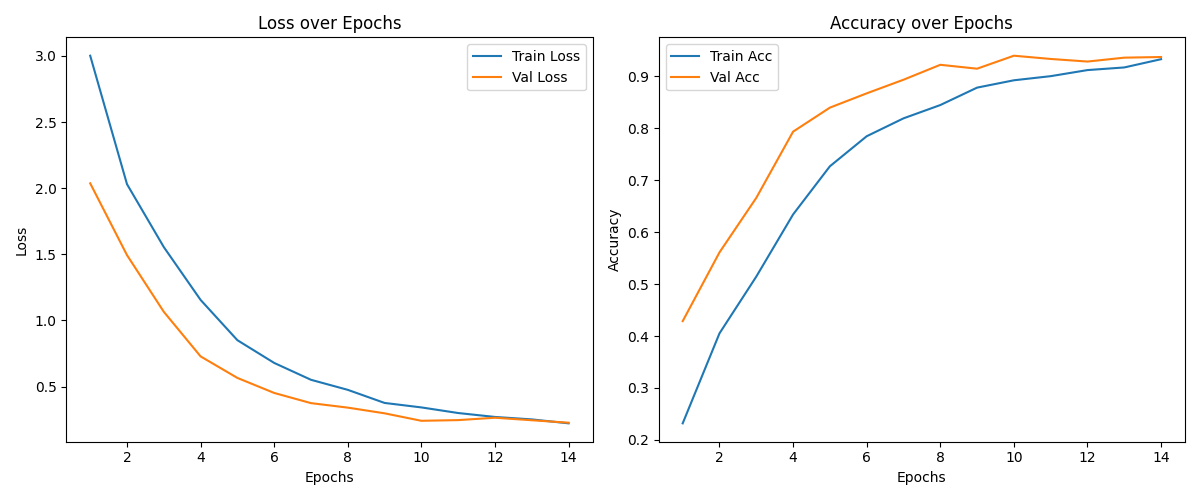
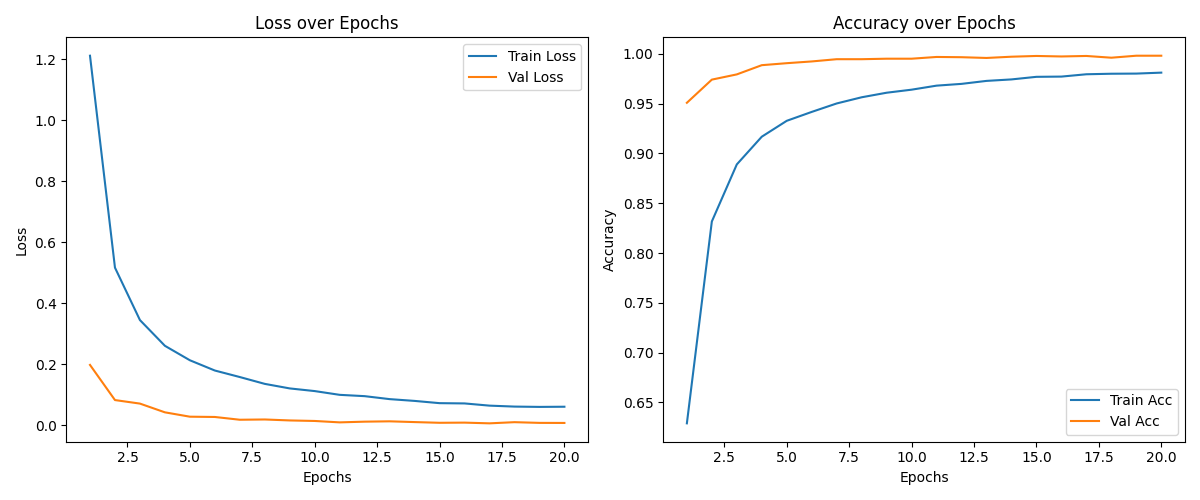
last pdate

diff --git a/services/cnn_model.py b/services/cnn_model.py
@@ -7,8 +7,9 @@ from models.mydataset import MyDataset
 from PIL import Image
 from config import Config
 from services.image_processing import transforming
-import torchvision.transforms.functional as TF
 from services.diagram import plot_training
+import tensorflow as tf
+import numpy as np
 
 
 def start(
@@ -61,11 +62,12 @@ def start(
     dropout_rate = hyperparameters.get("dropout_rate")
     early_stop_num = hyperparameters.get("early_stop")
 
-    train_data = MyDataset(X_train, y_train)
+    train_data = MyDataset(X_train, y_train, augment=True)
     val_data = MyDataset(X_val, y_val, validation=True)
     train_loader = DataLoader(train_data, batch_size=batch_size, shuffle=True)
     val_loader = DataLoader(val_data, batch_size=batch_size, shuffle=False)
 
+    # device = torch.device("cpu")
     device = torch.device("cuda" if torch.cuda.is_available() else "cpu")
     model = SimpleCNN(num_classes=len(set(y_train)), dropout=dropout_rate).to(device)
 
@@ -102,15 +104,16 @@ def start(
                 f"Val Loss: {history.get('epoch_val_loss'):.4f} | Val Acc: {history.get('epoch_val_acc'):.4f} - Best: {history.get('best_val_accuracy'):.4f}"
             },
         )
+        if history.get("epoch_val_acc") >= history.get("best_val_accuracy"):
+            torch.save(model, f"best-models/cnn.pth")
         if early_stop(model, history, early_stop_num, socketio):
             print(f"Early stopping at epoch {epoch+1}")
             break
+    plot_training(history)
     socketio.emit(
         "log",
         {"data": "Finished Training!"},
     )
-    torch.save(model.state_dict(), "best-models/model_weights.pth")
-    plot_training(history)
 
 
 def train(model, loss_fn, optimizer, train_loader, history, device, hyperparameters):
@@ -183,26 +186,30 @@ def val(model, loss_fn, val_loader, history, device, hyperparameters):
 
 
 def run_test():
-    device = torch.device("cuda" if torch.cuda.is_available() else "cpu")
-    model = SimpleCNN(num_classes=43, dropout=0.2).to(device)
-    model.load_state_dict(
-        torch.load("best-models/model_weights.pth")
-    )  # model = torch.load("best-models/cnn0.9782608695652174.pth", weights_only=False).to(
-    #     device
-    # )
-    model.eval()
+    # device = torch.device("cuda" if torch.cuda.is_available() else "cpu")
+    # model = torch.load("best-models/cnn.pth", weights_only=False).to(device)
+    # model.eval()
 
-    img_path = "static/uploads/test-images/image_name.png"
-    img = Image.open(img_path).convert("RGB")
-    _, val_transform, _, _ = transforming()
-    input_tensor = val_transform(img).unsqueeze(0).to(device)
-    transformed_img = input_tensor.squeeze(0).cpu()
-    pil_img = TF.to_pil_image(transformed_img)
-    pil_img.show()
+    # img_path = "static/uploads/test-images/image_name.png"
+    # img = Image.open(img_path).convert("RGB")
+    # _, val_transform, _, _ = transforming()
+    # input_tensor = val_transform(img).unsqueeze(0).to(device)
 
-    with torch.no_grad():
-        output = model(input_tensor)
-        _, predicted = torch.max(output, 1)
-        label = Config.CLASS_MAP[predicted.item()]
+    # with torch.no_grad():
+    #     output = model(input_tensor)
+    #     _, predicted = torch.max(output, 1)
+    #     label = Config.CLASS_MAP[predicted.item()]
+
+    # return label
+
+    model = tf.keras.models.load_model("best-models/cnn.keras")
+    img = Image.open("static/uploads/test-images/image_name.png").convert("RGB")
+    img = img.resize((64, 64))
+    img = np.expand_dims(img, axis=0)
+    img = np.array(img, dtype=np.float32) / 255.0
+
+    preds = model.predict(img)
+    predicted_class = np.argmax(preds, axis=1)[0]
+    label = Config.CLASS_MAP[predicted_class]
 
     return label

diff --git a/services/svm_model.py b/services/svm_model.py
@@ -6,6 +6,7 @@ from PIL import Image
 from config import Config
 from models.mydataset import MyDataset
 from services.image_processing import transforming
+from services.diagram import plot_training
 
 
 def start(
@@ -19,6 +20,12 @@ def start(
     socketio.emit("log", {"data": "Starting SVM training..."})
     socketio.emit("log", {"data": "Hyperparameters:"})
     socketio.emit("log", {"data": str(hyperparameters)})
+    history = {
+        "train_loss": [0] * hyperparameters.get("epochs", 1),
+        "val_loss": [0] * hyperparameters.get("epochs", 1),
+        "train_acc": [],
+        "val_acc": [],
+    }
     train_data = MyDataset(X_train, y_train)
     val_data = MyDataset(X_val, y_val)
 
@@ -89,6 +96,8 @@ def start(
     train_acc = svm_model.score(X_train, y_train)
 
     val_acc = svm_model.score(X_val, y_val)
+    history["train_acc"].append(train_acc)
+    history["val_acc"].append(val_acc)
 
     socketio.emit(
         "log",
@@ -101,6 +110,7 @@ def start(
 
     os.makedirs("best-models", exist_ok=True)
     dump(svm_model, "best-models/svm.joblib")
+    plot_training(history)
     socketio.emit(
         "log", {"data": f"Saved best model with validation accuracy: {val_acc:.4f}"}
     )

diff --git a/services/data_split.py b/services/data_split.py
@@ -9,13 +9,13 @@ def data_split():
     X = [(e.Filename, e.Roi_X1, e.Roi_Y1, e.Roi_X2, e.Roi_Y2) for e in data]
     y = [e.ClassId for e in data]
 
-    X_sampled, _, y_sampled, _ = train_test_split(
-        X, y, train_size=0.1, stratify=y, random_state=42
-    )
-    X_train, X_val, y_train, y_val = train_test_split(
-        X_sampled, y_sampled, test_size=0.15, stratify=y_sampled, random_state=42
-    )
-    # X_train, X_val, y_train, y_val = train_test_split(
-    #     X, y, test_size=0.15, stratify=y, random_state=42
+    # X_sampled, _, y_sampled, _ = train_test_split(
+    #     X, y, train_size=0.05, stratify=y, random_state=42
     # )
+    # X_train, X_val, y_train, y_val = train_test_split(
+    #     X_sampled, y_sampled, test_size=0.15, stratify=y_sampled, random_state=42
+    # )
+    X_train, X_val, y_train, y_val = train_test_split(
+        X, y, test_size=0.15, stratify=y, random_state=42
+    )
     return X_train, X_val, y_train, y_val

diff --git a/services/vit_model.py b/services/vit_model.py
@@ -7,6 +7,7 @@ from PIL import Image
 from config import Config
 from torchvision.models import vit_b_16, ViT_B_16_Weights
 from services.image_processing import transforming
+from services.diagram import plot_training
 
 
 def start(
@@ -78,7 +79,6 @@ def start(
 
     loss_fn = nn.CrossEntropyLoss()
 
-    epochs = hyperparameters.get("epochs")
     for epoch in range(epochs):
         train(model, loss_fn, optimizer, train_loader, history, device, hyperparameters)
         val(model, loss_fn, val_loader, history, device, hyperparameters)
@@ -95,7 +95,7 @@ def start(
         if early_stop(model, history, early_stop_num, socketio):
             print(f"Early stopping at epoch {epoch+1}")
             break
-
+    plot_training(history)
     socketio.emit(
         "log",
         {"data": "Finished Training!"},

diff --git a/services/image_processing.py b/services/image_processing.py
@@ -38,6 +38,7 @@ def transforming():
             ),
             transforms.RandomAffine(degrees=0, translate=(0.1, 0.1), scale=(0.9, 1.1)),
             transforms.ToTensor(),
+            transforms.Normalize(mean=[0.485, 0.456, 0.406], std=[0.229, 0.224, 0.225]),
         ]
     )
 
@@ -52,6 +53,7 @@ def transforming():
         [
             transforms.Resize((224, 224)),
             transforms.ToTensor(),
+            transforms.Normalize(mean=[0.485, 0.456, 0.406], std=[0.229, 0.224, 0.225]),
         ]
     )
 

diff --git a/models/mydataset.py b/models/mydataset.py
@@ -2,7 +2,6 @@ from torch.utils.data import Dataset
 from PIL import Image
 from services.image_processing import image_processing
 import os
-from torchvision.transforms import ToPILImage
 
 # class MyDataset(Dataset):
 #     def __init__(self, data_list, labels, validation=False, vit=False):
